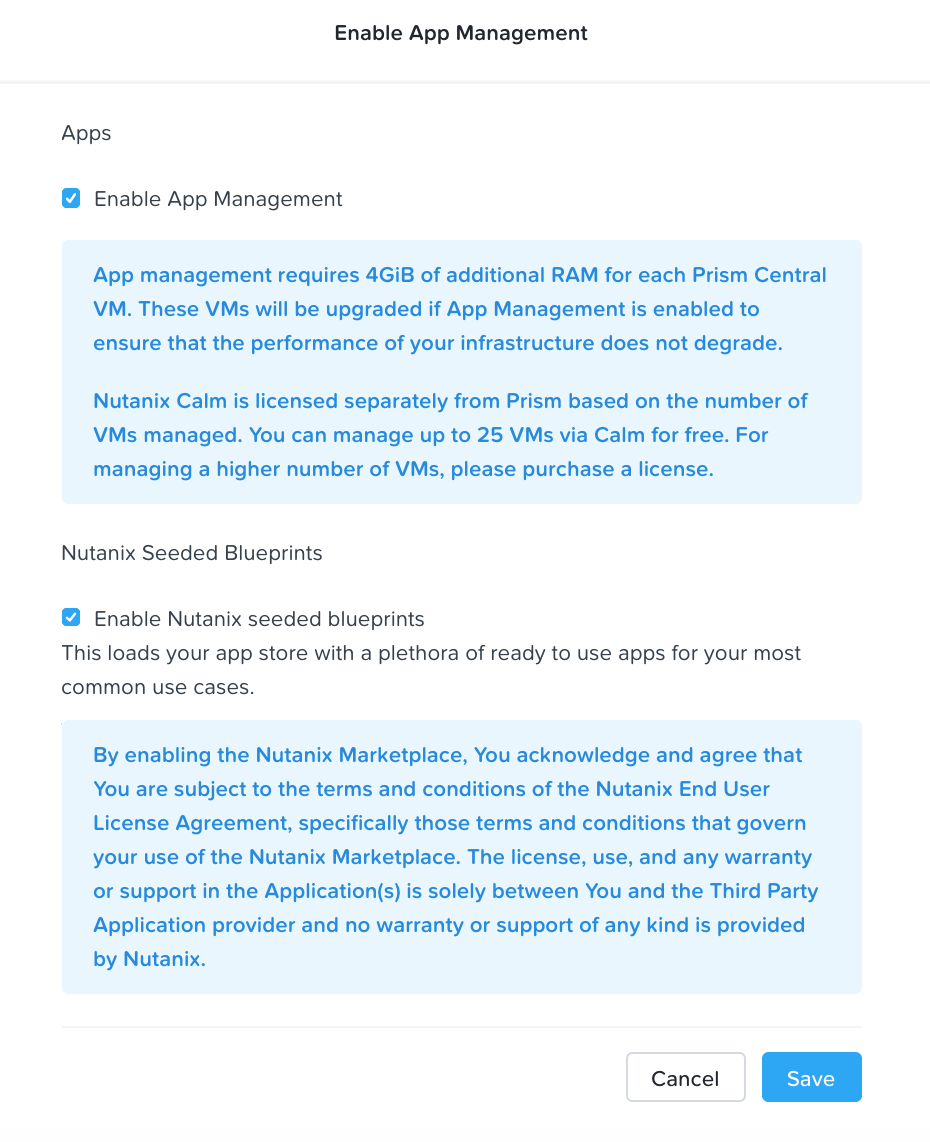
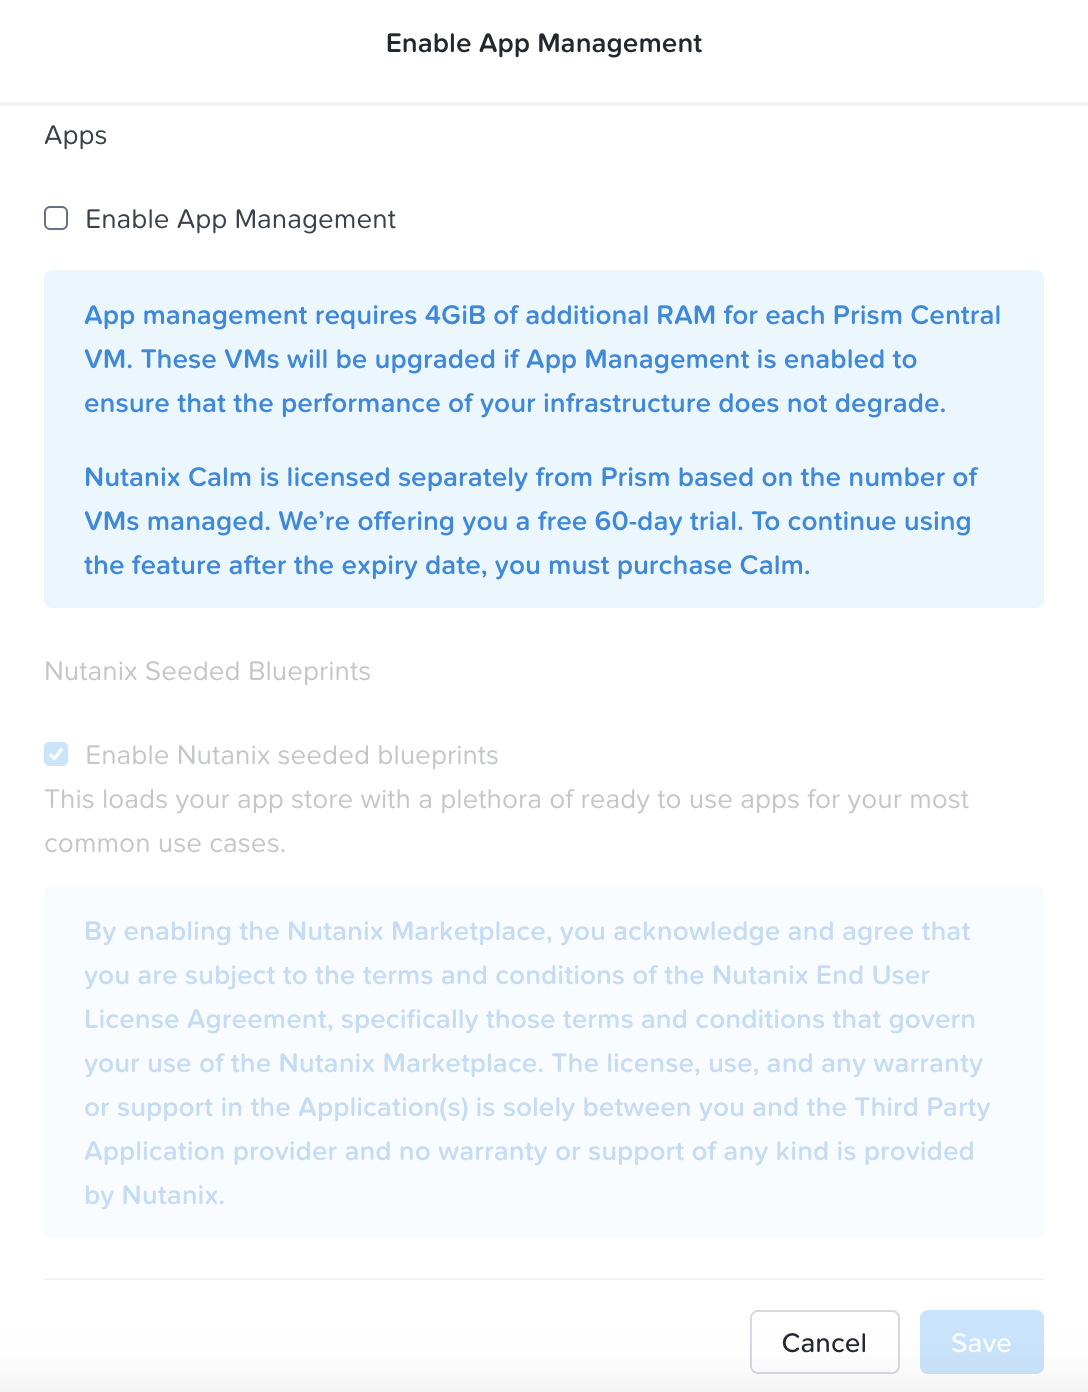
Update: licensing

diff --git a/calm_enable/calm_enable.rst b/calm_enable/calm_enable.rst
@@ -32,7 +32,7 @@ Calm is built into Prism Central and requires no additional appliances or consol
 
 #. Select **Enable App Management** and click **Save**.
 
-   .. note:: Nutanix Calm is a separately licensed product that can be used with Acropolis Starter, Pro, or Ultimate editions. Each Prism Central instance can manage up to 25 VMs for free before additional licensing is required.
+   .. note:: Nutanix Calm is a separately licensed product that can be used with Acropolis Starter, Pro, or Ultimate editions. If you want to test Calm, there is a 60 days trial starting when you enable it.
 
    .. figure:: images/510enable2.png
 
